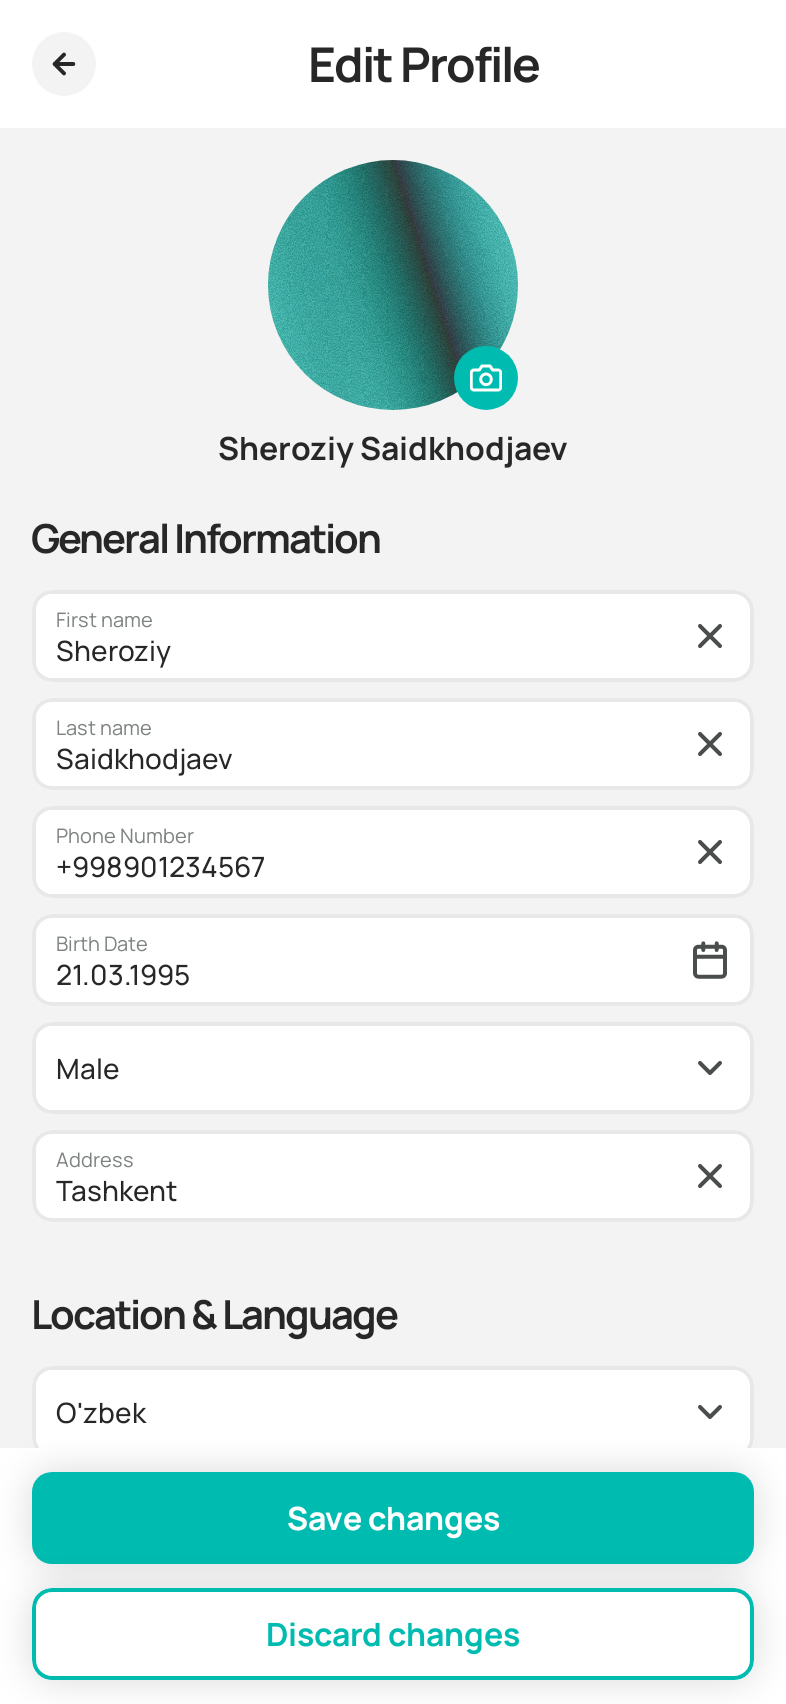
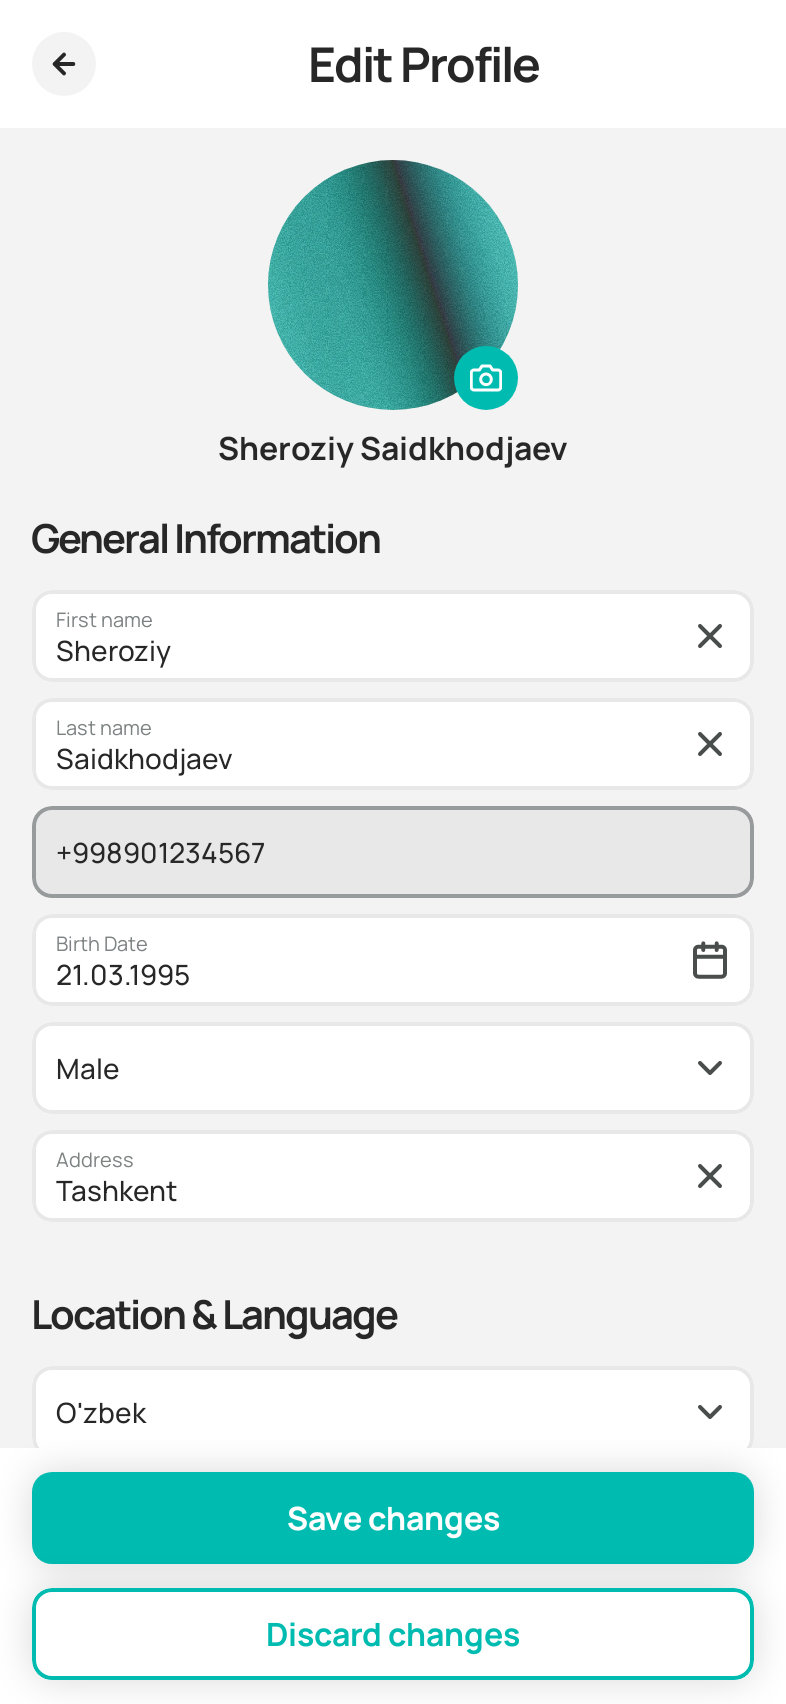
Show the phone read-only in Edit Profile, the backend never saved it

Changed region(s): [[0.0305, 0.4665, 0.3359, 0.5288], [0.9466, 0.4665, 0.9771, 0.5288], [0.8855, 0.4665, 0.916, 0.5288]]

diff --git a/composeApp/src/commonMain/kotlin/shifa/uz/ui/profile/EditProfileScreen.kt b/composeApp/src/commonMain/kotlin/shifa/uz/ui/profile/EditProfileScreen.kt
@@ -31,7 +31,6 @@ import androidx.compose.ui.backhandler.BackHandler
 import androidx.compose.ui.draw.dropShadow
 import androidx.compose.ui.semantics.Role
 import androidx.compose.ui.text.input.ImeAction
-import androidx.compose.ui.text.input.KeyboardType
 import androidx.lifecycle.viewmodel.compose.viewModel
 import kotlinx.datetime.LocalDate
 import org.jetbrains.compose.resources.StringResource
@@ -118,7 +117,6 @@ fun EditProfileScreen(
         onChangePhoto = pickPhoto,
         onFirstNameChange = viewModel::onFirstNameChange,
         onLastNameChange = viewModel::onLastNameChange,
-        onPhoneChange = viewModel::onPhoneChange,
         onPickDate = { pickingDate = true },
         onGenderChange = viewModel::onGenderChange,
         onAddressChange = viewModel::onAddressChange,
@@ -148,7 +146,6 @@ internal fun EditProfileContent(
     onChangePhoto: () -> Unit,
     onFirstNameChange: (String) -> Unit,
     onLastNameChange: (String) -> Unit,
-    onPhoneChange: (String) -> Unit,
     onPickDate: () -> Unit,
     onGenderChange: (Gender) -> Unit,
     onAddressChange: (String) -> Unit,
@@ -192,14 +189,17 @@ internal fun EditProfileContent(
                         Column(verticalArrangement = Arrangement.spacedBy(ShifaSpacing.Gap.Sm)) {
                             Field(state.firstName, onFirstNameChange, Res.string.firstName, shown(state.firstNameError))
                             Field(state.lastName, onLastNameChange, Res.string.lastName, shown(state.lastNameError))
-                            // ponytail: one field with the dial code; Figma's flag and code boxes need a country picker here.
-                            Field(
-                                state.phone,
-                                onPhoneChange,
-                                Res.string.phoneNumber,
-                                shown(state.phoneError),
-                                KeyboardType.Phone,
-                            )
+                            // Read-only: P2 has no phone key (the backend ignores one), the phone is the sign-in name.
+                            if (state.phone.isNotBlank()) {
+                                ShifaInputField(
+                                    value = state.phone,
+                                    onValueChange = {},
+                                    label = stringResource(Res.string.phoneNumber),
+                                    modifier = Modifier.fillMaxWidth(),
+                                    enabled = false,
+                                    clearable = false,
+                                )
+                            }
                             DateField(state.birthDate, onPickDate)
                             GenderDropdown(state.gender, onGenderChange)
                             Field(state.address, onAddressChange, Res.string.address, null)

diff --git a/composeApp/src/androidUnitTest/kotlin/shifa/uz/ui/profile/EditProfileViewModelTest.kt b/composeApp/src/androidUnitTest/kotlin/shifa/uz/ui/profile/EditProfileViewModelTest.kt
@@ -22,7 +22,6 @@ import org.mockito.kotlin.verifyBlocking
 import org.mockito.kotlin.wheneverBlocking
 import shifa.composeapp.generated.resources.Res
 import shifa.composeapp.generated.resources.failedToUpdateProfile
-import shifa.composeapp.generated.resources.invalidPhone
 import shifa.composeapp.generated.resources.required
 import shifa.uz.data.analytics.AnalyticsEvent
 import shifa.uz.data.analytics.RecordingTracker
@@ -67,11 +66,11 @@ class EditProfileViewModelTest {
         runTest {
             wheneverBlocking { profile.updateProfile(any()) } doReturn Result.success(patient)
             create()
-            classToTest.onPhoneChange("+998901111111")
+            classToTest.onAddressChange("Chilonzor 5")
             classToTest.save()
             advanceUntilIdle()
 
-            assertThat(tracker.events).containsExactly(AnalyticsEvent.ProfileUpdated(listOf("phone")))
+            assertThat(tracker.events).containsExactly(AnalyticsEvent.ProfileUpdated(listOf("address")))
         }
 
     private fun create(initial: PatientProfile? = patient) {
@@ -105,14 +104,11 @@ class EditProfileViewModelTest {
     fun `an invalid form shows its errors and isn't sent`() =
         runTest {
             create(null)
-            classToTest.onPhoneChange("+998")
-
             classToTest.save()
             advanceUntilIdle()
 
             assertThat(state.showErrors).isTrue()
             assertThat(state.firstNameError).isEqualTo(Res.string.required)
-            assertThat(state.phoneError).isEqualTo(Res.string.invalidPhone)
             verifyBlocking(profile, never()) { updateProfile(any()) }
         }
 
@@ -139,7 +135,6 @@ class EditProfileViewModelTest {
                         lastName = "Karimov",
                         birthDate = "1990-05-12",
                         gender = "Female",
-                        phone = "+998901234567",
                         address = null,
                         language = "ru",
                         locationStreetAddress = "Amir Temur 1",

diff --git a/composeApp/src/commonMain/kotlin/shifa/uz/ui/profile/EditProfileViewModel.kt b/composeApp/src/commonMain/kotlin/shifa/uz/ui/profile/EditProfileViewModel.kt
@@ -56,8 +56,6 @@ class EditProfileViewModel(
 
     fun onLastNameChange(value: String) = update { copy(lastName = value) }
 
-    fun onPhoneChange(value: String) = update { copy(phone = value) }
-
     fun onBirthDateChange(value: LocalDate) = update { copy(birthDate = value) }
 
     fun onGenderChange(value: Gender) = update { copy(gender = value) }
@@ -108,7 +106,6 @@ class EditProfileViewModel(
                 lastName = s.lastName.trim(),
                 birthDate = s.birthDate?.toString(),
                 gender = s.gender?.value,
-                phone = s.phone.trim().ifEmpty { null },
                 address = s.address.trim().ifEmpty { null },
                 language = s.language.code,
                 locationStreetAddress = s.streetAddress.trim().ifEmpty { null },
@@ -137,7 +134,6 @@ class EditProfileViewModel(
         listOfNotNull(
             "first_name".takeIf { s.firstName.trim() != original.fullName.trim().substringBefore(' ') },
             "last_name".takeIf { s.lastName.trim() != original.fullName.trim().substringAfter(' ', "").trim() },
-            "phone".takeIf { s.phone.trim() != original.phone.orEmpty().trim() },
             "birth_date".takeIf { s.birthDate?.toString() != original.birthDate?.take(10) },
             "gender".takeIf { !s.gender?.value.equals(original.gender, ignoreCase = true) },
             "address".takeIf { s.address.trim() != original.address.orEmpty().trim() },

diff --git a/composeApp/src/commonMain/kotlin/shifa/uz/ui/profile/EditProfileUiState.kt b/composeApp/src/commonMain/kotlin/shifa/uz/ui/profile/EditProfileUiState.kt
@@ -5,7 +5,6 @@ import kotlinx.datetime.LocalDate
 import org.jetbrains.compose.resources.StringResource
 import shifa.composeapp.generated.resources.Res
 import shifa.composeapp.generated.resources.female
-import shifa.composeapp.generated.resources.invalidPhone
 import shifa.composeapp.generated.resources.male
 import shifa.composeapp.generated.resources.other
 import shifa.composeapp.generated.resources.required
@@ -47,8 +46,7 @@ data class EditProfileUiState(
     val lastNameError get() = Res.string.required.takeIf { lastName.isBlank() }
 
     // 14 §7: optional, else at least 10 digits with the dial code.
-    val phoneError get() = Res.string.invalidPhone.takeIf { phone.isNotBlank() && phone.count(Char::isDigit) < 10 }
-    val isValid get() = firstNameError == null && lastNameError == null && phoneError == null
+    val isValid get() = firstNameError == null && lastNameError == null
 }
 
 /** 14 §3.2 field initialisation; the name splits on the first space. */

diff --git a/composeApp/src/androidMain/kotlin/shifa/uz/ui/profile/ProfilePreviews.kt b/composeApp/src/androidMain/kotlin/shifa/uz/ui/profile/ProfilePreviews.kt
@@ -38,7 +38,7 @@ private fun Profile(state: ProfileUiState) = PreviewTheme { ProfileContent(state
 
 @Composable
 private fun EditProfile(state: EditProfileUiState) =
-    PreviewTheme { EditProfileContent(state, {}, {}, {}, {}, {}, {}, {}, {}, {}, {}, {}, {}) }
+    PreviewTheme { EditProfileContent(state, {}, {}, {}, {}, {}, {}, {}, {}, {}, {}, {}) }
 
 @Preview(widthDp = 393, heightDp = 852)
 @Composable

diff --git a/composeApp/src/commonMain/kotlin/shifa/uz/data/debug/DemoBackend.kt b/composeApp/src/commonMain/kotlin/shifa/uz/data/debug/DemoBackend.kt
@@ -1082,7 +1082,6 @@ class DemoBackend(
             val changes =
                 listOf(
                     "fullName" to name,
-                    "phone" to update.phone,
                     "birthDate" to update.birthDate,
                     "gender" to update.gender,
                     "address" to update.address,

diff --git a/composeApp/src/commonMain/kotlin/shifa/uz/data/model/ProfileModels.kt b/composeApp/src/commonMain/kotlin/shifa/uz/data/model/ProfileModels.kt
@@ -9,7 +9,6 @@ data class ProfileUpdate(
     val lastName: String? = null,
     val birthDate: String? = null,
     val gender: String? = null,
-    val phone: String? = null,
     val address: String? = null,
     val language: String? = null,
     val photoUrl: String? = null,

diff --git a/docs/kmp-spec/15-api-reference.md b/docs/kmp-spec/15-api-reference.md
@@ -489,7 +489,7 @@ The client intercepts `…/api/payments/checkout/success` and `…/api/payments/
   {
     "firstName"?, "lastName"?, "birthDate"?: "yyyy-MM-dd",
     "gender"?: "Male" | "Female" | "Other",
-    "phone"?, "address"?, "language"?: "en|de|uz|ru",
+    "address"?, "language"?: "en|de|uz|ru",
     "photoUrl"?, "latitude"?: number, "longitude"?: number,
     "locationCountry"?, "locationRegion"?, "locationDistrict"?, "locationCity"?,
     "locationPostalCode"?, "locationStreetAddress"?,
@@ -497,6 +497,7 @@ The client intercepts `…/api/payments/checkout/success` and `…/api/payments/
   }
   ```
 - **Res 200**: the updated PatientProfile (§5.1).
+- **No `phone`**: the backend's request has no such key and ignores one (checked 2026-11-10), so the app shows the phone read-only and does not send it.
 - **Asymmetry**: the client sends `firstName` and `lastName`, but the response is parsed only for `fullName`.
 - Location fields come from Google reverse geocoding (§4.1). `address` is a formatted string built on the client.
 - **Bug**: the edit-profile screen can PATCH a local file path as `photoUrl`.

diff --git a/docs/implemented/profile.md b/docs/implemented/profile.md
@@ -13,7 +13,7 @@
 ## Edit profile (`EditProfileScreen.kt`, PROF-03)
 
 - Figma: `1703:17376`. Starts from the loaded profile, with no fetch. The name splits on the first space, the birth date is parsed from ISO, and an unknown gender is no selection and isn't sent (14 Q15).
-- Validation (14 §7): first and last name are required (the backend only renames when both are sent). The phone is optional, else it needs at least 10 digits.
+- Validation (14 §7): first and last name are required (the backend only renames when both are sent). The phone is shown read-only and not sent: P2 has no phone key (2026-11-10).
 - Save sends P2 with the trimmed fields and blanks as null, without `photoUrl` (14 Q1, Q3). The language applies once the save succeeds. Discard goes back with no prompt (14 §3.2), and it is disabled while saving.
 - Differences from Figma:
   - The header says "Edit Profile", where Figma says "Profile".
